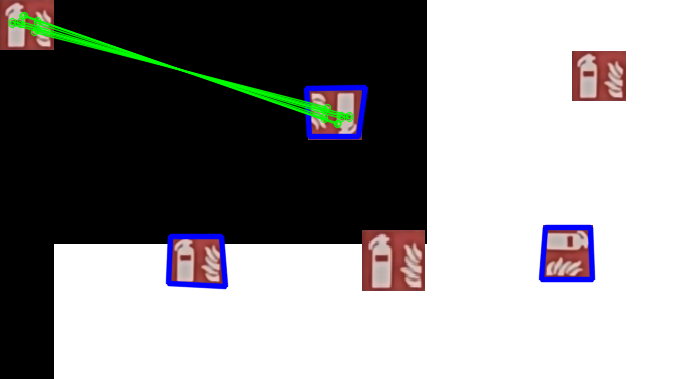
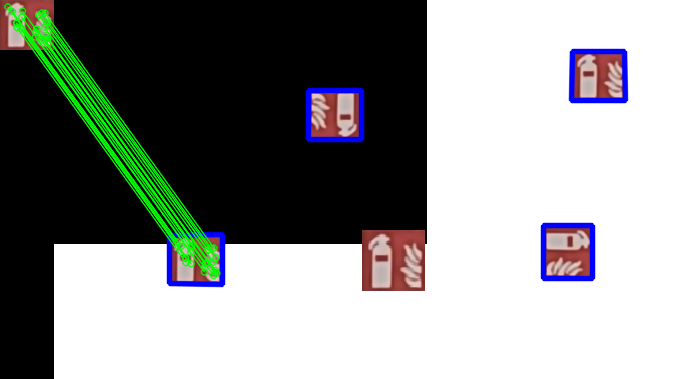
ORB+FLANN+MEANSHIFT

diff --git a/module_test/05_13_ORB_test.py b/module_test/05_13_ORB_test.py
@@ -4,22 +4,31 @@ import cv2
 import numpy as np
 from sklearn.cluster import DBSCAN, MeanShift, estimate_bandwidth
 
-MIN_MATCH_COUNT = 10
+MIN_MATCH_COUNT = 4
 
-file_name = "module_test\\result\\20230608_110853_bilateral"
+file_name = "module_test\\result\\20230608_110853"
 image_name = file_name + ".png"
 
-img1 = cv2.imread(file_name + '_template1.png')
-img2 = cv2.imread(image_name)
+templateImage = cv2.imread(file_name + '_template1.png')
+backgroundImage = cv2.imread(image_name)
 
-# 1. Feature Extraction: ORB
-orb = cv2.ORB_create(10000, 1.2, nlevels=8, edgeThreshold = 5)
+# # 1.1. Feature Extraction: ORB
+# orb = cv2.ORB_create(10000, 1.2, nlevels=8, edgeThreshold = 5)
 
-# find the keypoints and descriptors with ORB
-kp1, des1 = orb.detectAndCompute(img1, None)
-kp2, des2 = orb.detectAndCompute(img2, None)
+# # find the keypoints and descriptors with ORB
+# kp1, des1 = orb.detectAndCompute(templateImage, None)
+# kp2, des2 = orb.detectAndCompute(backgroundImage, None)
+# # 1.1.
 
-# 3. Clustering
+# 1.2. Feature Extraction: SIFT
+sift = cv2.SIFT_create()
+
+# find the keypoints and descriptors with SIFT
+kp1, des1 = sift.detectAndCompute(templateImage, None)
+kp2, des2 = sift.detectAndCompute(backgroundImage, None)
+# 1.2.
+
+# 2.1. Clustering: MeanShift
 x = np.array([kp2[0].pt])
 
 for i in range(len(kp2)):
@@ -33,6 +42,15 @@ ms = MeanShift(bandwidth=bandwidth, bin_seeding=True, cluster_all=True)
 ms.fit(x)
 labels = ms.labels_
 cluster_centers = ms.cluster_centers_
+# 2.1.
+
+# # 2.2. Clustering: DBSCAN
+# # Adjust the size of the rectangle based on the template image size
+# template_w, template_h = templateImage.shape[:2]
+# dbscan = DBSCAN(eps=template_w, min_samples=5)  # Adjust the eps and min_samples parameters accordingly
+# dbscan.fit(des2)
+# labels = dbscan.labels_
+# # 2.2.
 
 labels_unique = np.unique(labels)
 n_clusters_ = len(labels_unique)
@@ -40,20 +58,34 @@ print("number of estimated clusters : %d" % n_clusters_)
 
 s = [None] * n_clusters_
 for i in range(n_clusters_):
+    # 2.1. Clustering: MeanShift
     l = ms.labels_
     d, = np.where(l == i)
+    # 2.1.
+
+    # # 2.2. Clustering: DBSCAN
+    # d, = np.where(labels == i)
+    # # 2.2.
+
     print(d.__len__())
     s[i] = list(kp2[xx] for xx in d)
 
 des2_ = des2
 
 for i in range(n_clusters_):
-
     kp2 = s[i]
+    # 2.1. Clustering: MeanShift
     l = ms.labels_
     d, = np.where(l == i)
+    # 2.1.
+
+    # # 2.2. Clustering: DBSCAN
+    # d, = np.where(labels == i)
+    # # 2.2.
+
     des2 = des2_[d, ]
 
+    # 3. Feature Matching: FLANN
     FLANN_INDEX_KDTREE = 0
     index_params = dict(algorithm = FLANN_INDEX_KDTREE, trees = 5)
     search_params = dict(checks = 50)
@@ -68,7 +100,7 @@ for i in range(n_clusters_):
     # store all the good matches as per Lowe's ratio test.
     good = []
     for m,n in matches:
-        if m.distance < 0.8*n.distance:
+        if m.distance < 0.7 * n.distance:
             good.append(m)
 
     if len(good)>3:
@@ -82,18 +114,18 @@ for i in range(n_clusters_):
         else:
             matchesMask = mask.ravel().tolist()
 
-            h,w,_ = img1.shape
+            h,w,_ = templateImage.shape
             pts = np.float32([ [0,0],[0,h-1],[w-1,h-1],[w-1,0] ]).reshape(-1,1,2)
             dst = cv2.perspectiveTransform(pts,M)
 
-            img2 = cv2.polylines(img2,[np.int32(dst)],True,255,3, cv2.LINE_AA)
+            backgroundImage = cv2.polylines(backgroundImage,[np.int32(dst)],True,255,3, cv2.LINE_AA)
 
             draw_params = dict(matchColor=(0, 255, 0),  # draw matches in green color
                                singlePointColor=None,
                                matchesMask=matchesMask,  # draw only inliers
                                flags=2)
 
-            img3 = cv2.drawMatches(img1, kp1, img2, kp2, good, None, **draw_params)
+            img3 = cv2.drawMatches(templateImage, kp1, backgroundImage, kp2, good, None, **draw_params)
 
             cv2.imwrite(file_name + "_gray_" + str(i) + ".png", img3)
 

diff --git a/module_test/05_11_feature_matching_test.py b/module_test/05_11_feature_matching_test.py
@@ -6,7 +6,7 @@ from sklearn.cluster import DBSCAN, MeanShift, estimate_bandwidth
 
 MIN_MATCH_COUNT = 2
 
-file_name = "module_test\\result\\IMG_3751_rect_crop_bilateral"
+file_name = "module_test\\result\\20230608_110853"
 image_name = file_name + ".png"
 
 backgroundImage = cv2.imread(image_name)
@@ -16,17 +16,42 @@ templateImage = cv2.imread(file_name + '_template1.png')
 sift = cv2.SIFT_create()
 
 # find the keypoints and descriptors
-features1, des1 = sift.detectAndCompute(templateImage, None)
-features2, des2 = sift.detectAndCompute(backgroundImage, None)
+kp1, des1 = sift.detectAndCompute(templateImage, None)
+kp2, des2 = sift.detectAndCompute(backgroundImage, None)
 
-# Feature Matching: FLANN
-# bf = cv2.BFMatcher(cv2.NORM_L2)
-# matches = bf.knnMatch(des1, des2, k=2)
 
+
+
+
+
+
+
+
+
+
+
+
+
+
+
+
+
+
+
+
+
+
+
+
+
+
+# 3. Feature Matching: FLANN
 FLANN_INDEX_KDTREE = 1
 index_params = dict(algorithm = FLANN_INDEX_KDTREE, trees = 5)
 search_params = dict(checks=50)   # or pass empty dictionary
+
 flann = cv2.FlannBasedMatcher(index_params,search_params)
+
 matches = flann.knnMatch(des1,des2,k=2)
 
 # Nearest neighbour ratio test to find good matches
@@ -38,14 +63,14 @@ matchesMask = [[0,0] for i in range(len(matches))]
 
 # for m, n in matches:
 for i,(m,n) in enumerate(matches):
-    if m.distance < 0.8 * n.distance:
+    if m.distance < 0.7 * n.distance:
         matches_list.append([m])
         filtered_matched_lists.append(m)
         matchesMask[i]=[1,0]
 
 if len(filtered_matched_lists) > 0:
     # Cluster the keypoints
-    keypoints = np.float32([features2[m.trainIdx].pt for m in filtered_matched_lists])
+    keypoints = np.float32([kp2[m.trainIdx].pt for m in filtered_matched_lists])
 
     # Adjust the size of the rectangle based on the template image size
     template_w, template_h = templateImage.shape[:2]
@@ -58,7 +83,7 @@ if len(filtered_matched_lists) > 0:
         # Draw a polygon around the recognized object
         # pixel coordinates of the keypoints from the que
         # src_pts = np.float32([features1[m.queryIdx].pt for m in filtered_matched_lists]).reshape(-1, 1, 2)
-        src_pts = np.float32([features1[m.queryIdx].pt for m, lbl in zip(filtered_matched_lists, labels) if lbl == label]).reshape(-1, 1, 2)
+        src_pts = np.float32([kp1[m.queryIdx].pt for m, lbl in zip(filtered_matched_lists, labels) if lbl == label]).reshape(-1, 1, 2)
 
         cluster_points = keypoints[labels == label].reshape(-1, 1, 2)
         
@@ -74,13 +99,13 @@ if len(filtered_matched_lists) > 0:
         dst_pts = cv2.perspectiveTransform(pts, M)
 
         # Draw a rectangle around the cluster in the background image
-        background_img = cv2.polylines(background_img, [dst_pts.astype(np.int32)], isClosed=True, color=(0, 255, 0), thickness=2)
+        background_img = cv2.polylines(backgroundImage, [dst_pts.astype(np.int32)], isClosed=True, color=(0, 255, 0), thickness=2)
         # background_img = cv2.fillPoly(background_img, [dst_pts.astype(np.int32)], color=(255, 255, 255))
     
 else:
     print('Not enough good matches are found - {}/{}'.format(len(filtered_matched_lists), 0))
 
-result_img = cv2.drawMatchesKnn(templateImage, features1, background_img, features2, matches_list, None, flags=2)
+result_img = cv2.drawMatchesKnn(templateImage, kp1, background_img, kp2, matches_list, None, flags=2)
 cv2.imwrite(file_name + "_detect.png", result_img)
 cv2.imwrite(file_name + "_generated.png", background_img)
 
@@ -88,5 +113,5 @@ draw_params = dict(matchColor = (0,255,0),
                 singlePointColor = (255,0,0),
                 matchesMask = matchesMask,
                 flags = cv2.DrawMatchesFlags_DEFAULT)
-img3 = cv2.drawMatchesKnn(templateImage,features1,background_img,features2,matches,None,**draw_params)
+img3 = cv2.drawMatchesKnn(templateImage,kp1,background_img,kp2,matches,None,**draw_params)
 cv2.imwrite(file_name + "_points.png", img3)

diff --git a/module_test/02_image_filter.py b/module_test/02_image_filter.py
@@ -1,7 +1,7 @@
 import cv2
 import numpy as np
 
-file_name = "module_test\\result\\20230608_110853"
+file_name = "module_test\\result\\20230608_105850"
 image_name = file_name + ".jpg"
 
 img = cv2.imread(image_name)
